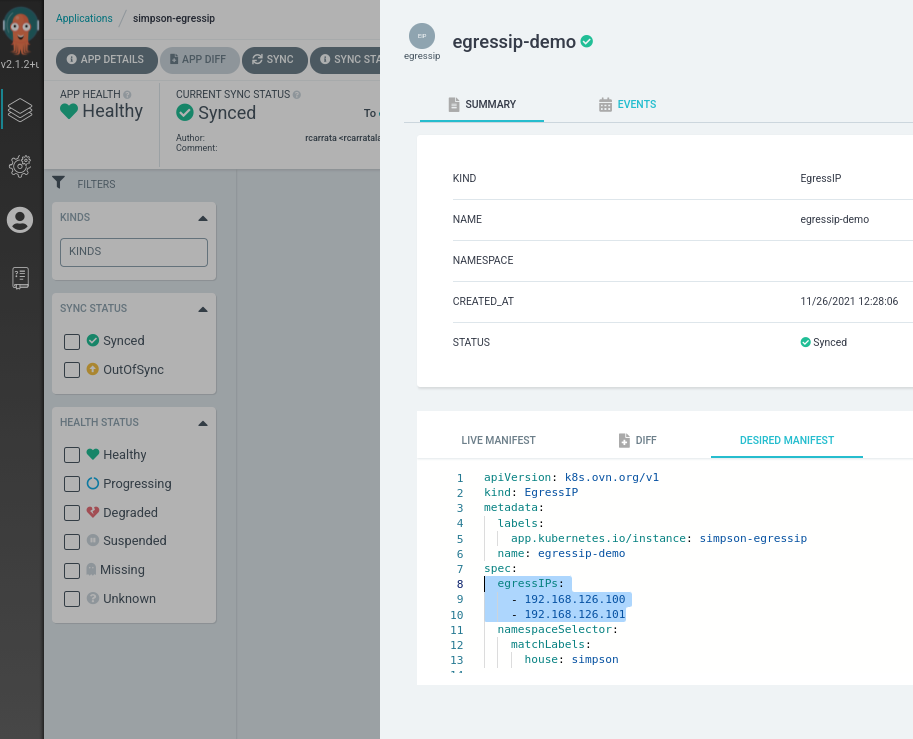
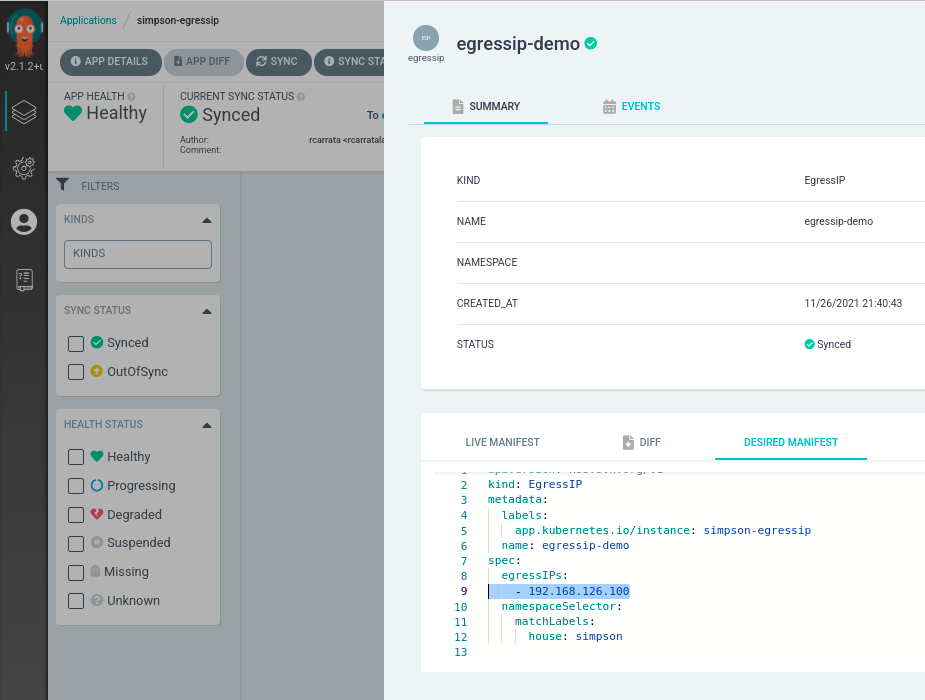
added egressip docs

diff --git a/README.md b/README.md
@@ -241,7 +241,7 @@ To assign one or more egress IPs to a namespace or specific pods in a namespace,
 * At least one node in your cluster must have the k8s.ovn.org/egress-assignable: "" label.
 * An EgressIP object exists that defines one or more egress IP addresses to use as the source IP address for traffic leaving the cluster from pods in a namespace.
 
-NOTE: Check the [platform supportability](https://docs.openshift.com/container-platform/4.9/networking/ovn_kubernetes_network_provider/configuring-egress-ips-ovn.html#nw-egress-ips-platform-support_configuring-egress-ips-ovn) to be aware in which platforms are supported the EgressIP. 
+NOTE: Check the [platform supportability](https://docs.openshift.com/container-platform/4.9/networking/ovn_kubernetes_network_provider/configuring-egress-ips-ovn.html#nw-egress-ips-platform-support_configuring-egress-ips-ovn) to be aware in which platforms are supported the EgressIP.
 
 ### Assigning EgressIP to specific worker
 
@@ -275,7 +275,7 @@ kubectl get namespace simpson -o jsonpath='{.metadata.labels}' | jq -r .
 }
 ```
 
-* We will use an specific EgressIP, that is in the same range of the machineNetwork / HOST_IP:
+* We will use two specific EgressIP, that are in the same range of the machineNetwork / HOST_IP:
 
 ```sh
 EGRESS_IP1="192.168.126.100"
@@ -322,25 +322,24 @@ NAME            EGRESSIPS         ASSIGNED NODE              ASSIGNED EGRESSIPS
 egressip-demo   192.168.126.100   ocp-8vr6j-worker-0-sl79n   192.168.126.100
 ```
 
-the egressIP is assigned properly to the labeled worker node in the previous step.
+the egressIP1 is assigned properly to the labeled worker node in the previous step.
 
 If we check specifically the egressip-demo object we can confirm that the status it's the egressIP is assigned to the node:
 
 ```sh
-kubectl get egressip egressip-demo -o yaml
 apiVersion: k8s.ovn.org/v1
 kind: EgressIP
 metadata:
   annotations:
     kubectl.kubernetes.io/last-applied-configuration: |
-      {"apiVersion":"k8s.ovn.org/v1","kind":"EgressIP","metadata":{"annotations":{},"labels":{"app.kubernetes.io/instance":"simpson-egressip"},"name":"egressip-demo"},"spec":{"egressIPs":["192.168.126.100","192.168.126.101"],"namespaceSelector":{"matchLabels":{"house":"simpson"}}}}
-  creationTimestamp: "2021-11-26T11:28:06Z"
-  generation: 2
+      {"apiVersion":"k8s.ovn.org/v1","kind":"EgressIP","metadata":{"annotations":{},"labels":{"app.kubernetes.io/instance":"simpson-egressip"},"name":"egressip-demo"},"spec":{"egressIPs":["192.168.126.100"],"namespaceSelector":{"matchLabels":{"house":"simpson"}}}}
+  creationTimestamp: "2021-11-26T20:40:43Z"
+  generation: 3
   labels:
     app.kubernetes.io/instance: simpson-egressip
   name: egressip-demo
-  resourceVersion: "10138560"
-  uid: e6ea5166-fdf7-4b11-acbb-b393f4baab1b
+  resourceVersion: "10348402"
+  uid: ae1ccb00-70b6-4322-a538-f646cccd4ec4
 spec:
   egressIPs:
   - 192.168.126.100
@@ -351,7 +350,7 @@ spec:
 status:
   items:
   - egressIP: 192.168.126.100
-    node: ocp-8vr6j-worker-0-sl79n
+    node: ocp-8vr6j-worker-0-82t6f
 ```
 
 Let's dig a big deeper, to check how the OVN Kubernetes handles the EgressIP and how we can check them.
